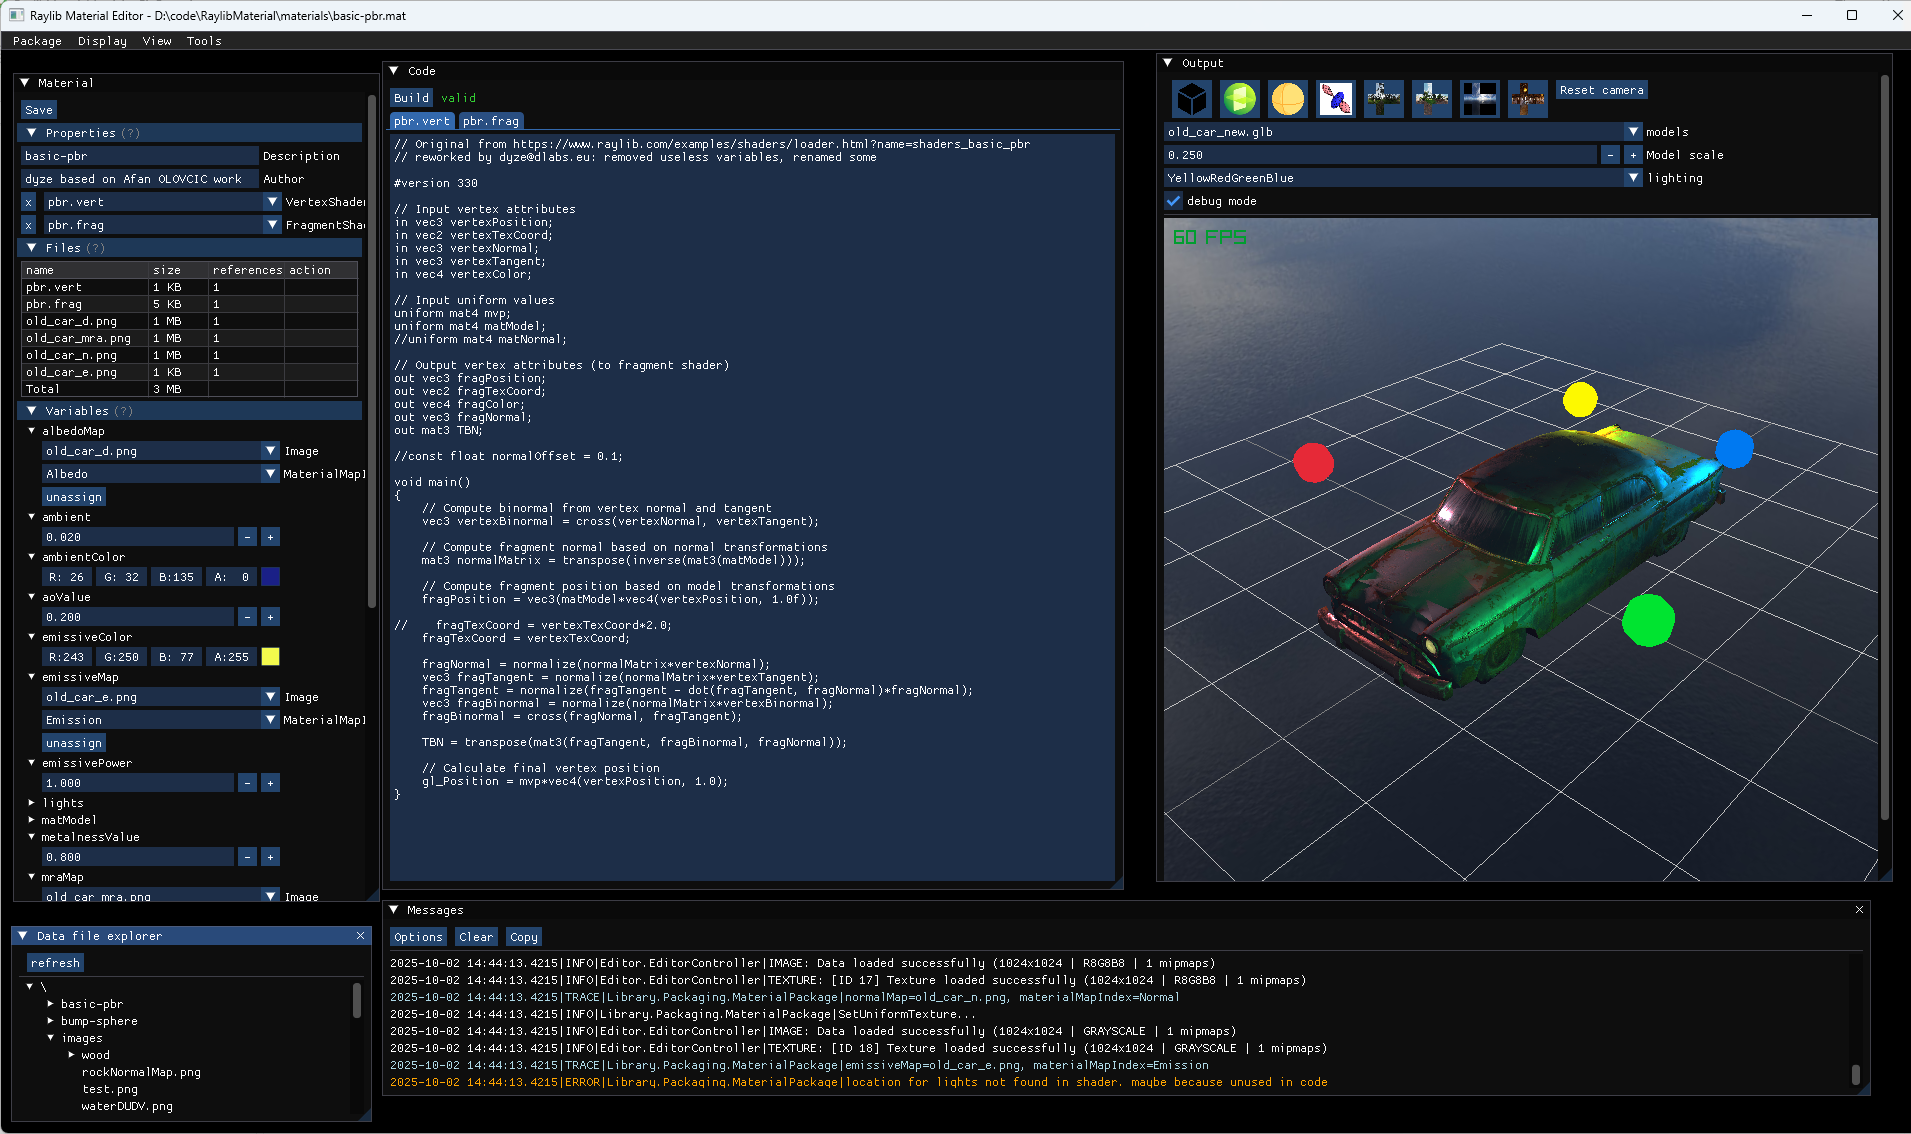
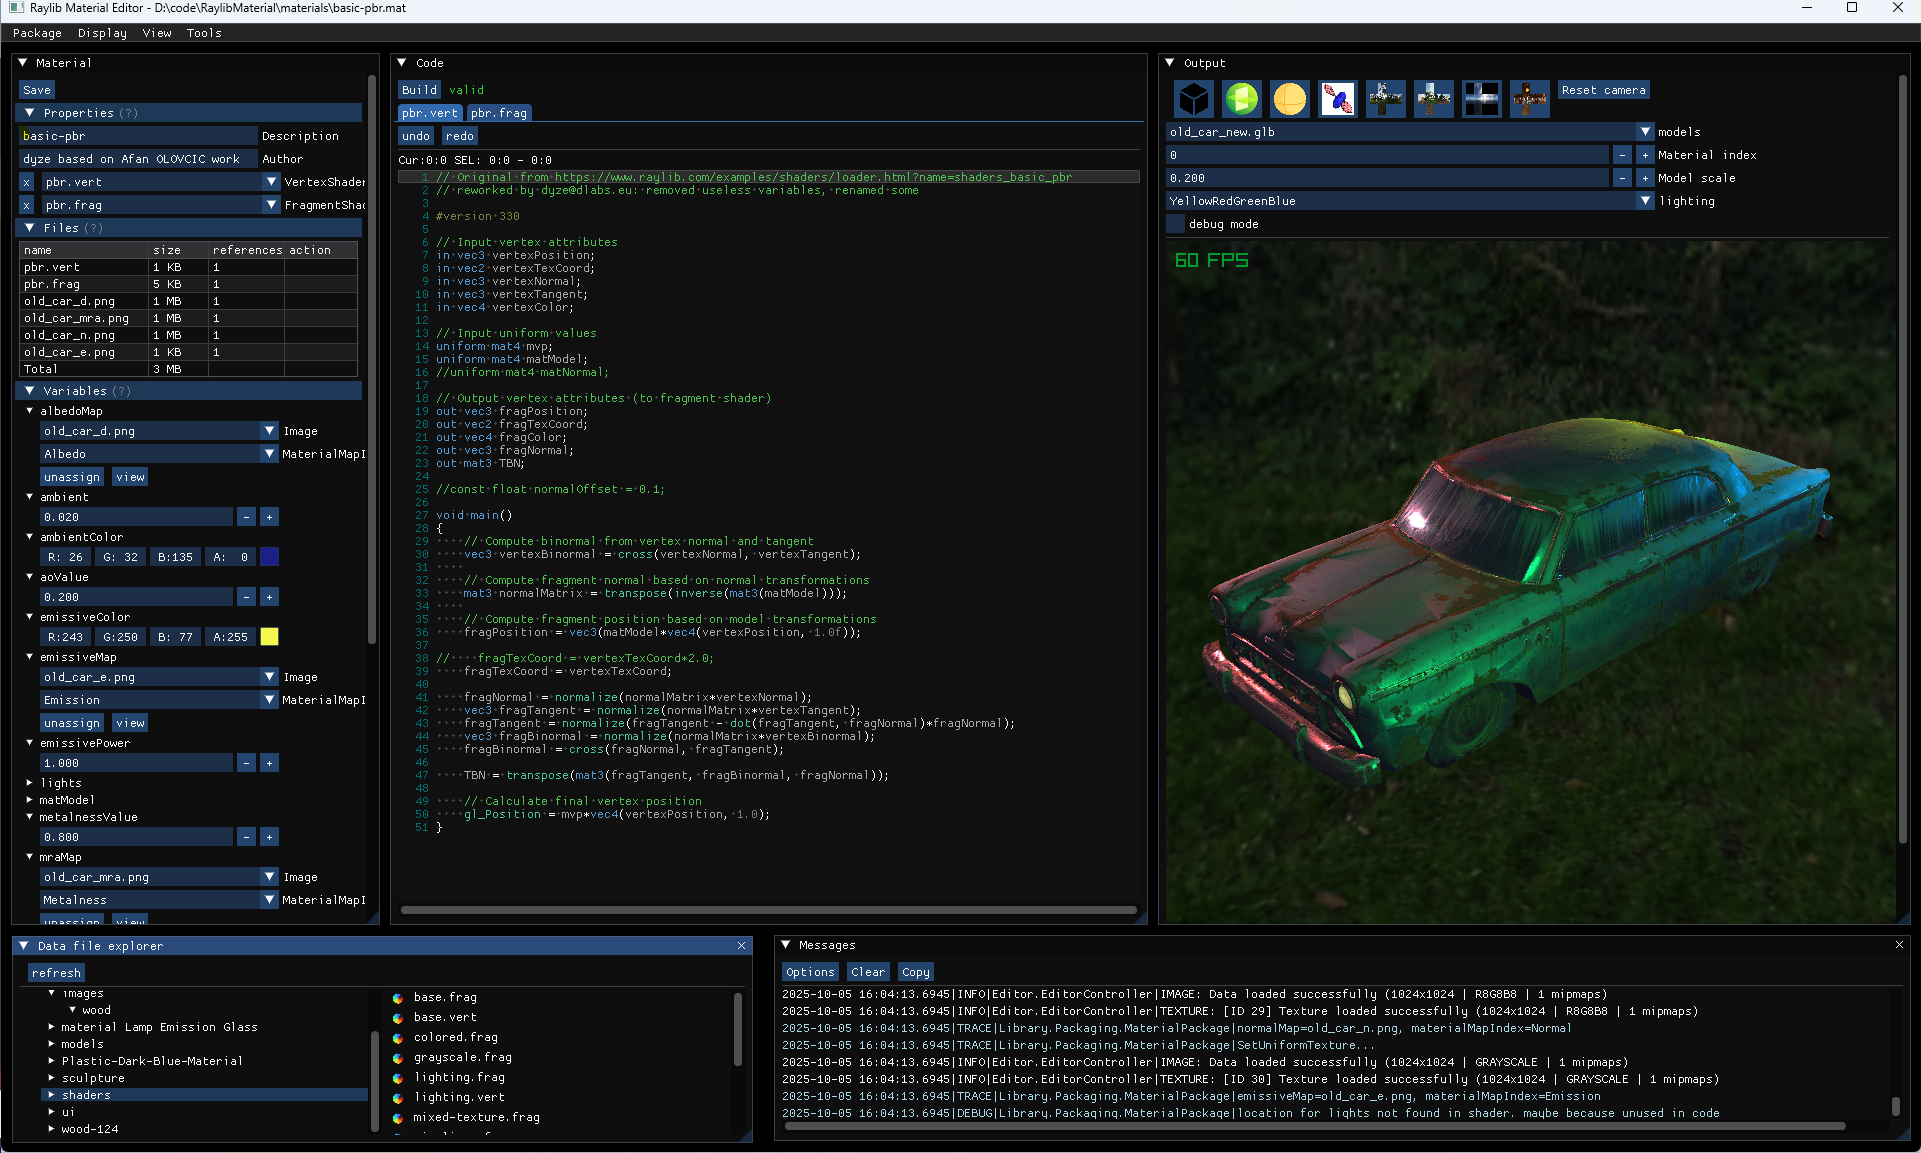
updated README.md

diff --git a/src/Editor/Windows/DataFileExplorer.cs b/src/Editor/Windows/DataFileExplorer.cs
@@ -233,7 +233,7 @@ public class DataFileExplorer
             ImGui.SetNextItemOpen(true, ImGuiCond.Always);
 
         if (_selectedFolder == folderContent)
-            flags |= ImGuiTreeNodeFlags.Selected | ImGuiTreeNodeFlags.SpanFullWidth;
+            flags |= ImGuiTreeNodeFlags.Selected;
 
         var openFolder = ImGui.TreeNodeEx(name.Length == 0 ? "\\" : name,
             flags);

diff --git a/README.md b/README.md
@@ -11,23 +11,27 @@ Such editor looks like:
 The produced packages are simple zip files that contain whatever is needed for Raylib to work:
 ![image info](./docs/package-content.png)
 
-It is based on RayLib-cs project.
+It is based on [Raylib-cs](https://github.com/raylib-cs/raylib-cs) project.
+
+The provided **ConsumerSampleApp** project shows how to use those materials:
+
+![image info](./docs/ConsumerSampleApp.png)
 
 ## Status of the project
 
 0.1 is still under developer. You can play with it and give feedbacks but the library and editor are not fully operational.
 
 The remaining tasks for this first release are:
-* [ ] make easy to edit and compile shaders
-* [ ] support of models with multiple materials
+* [x] make easy to edit and compile shaders
+* [x] support of models with multiple materials
 * [ ] handle all kinds of uniform types (vec2, vec3...)
 * [x] preview material using a 3D model stored on disk (today only primitives are properly supported)
 * [x] use a sky box instead of a plane for background
 * [ ] handle versioning of packages
-* [ ] produce nuget package for library
+* [x] produce nuget package for library
 * [ ] Cover 100% of code of the library with tests
 * [ ] Add documentation of the editor and the library
-* [ ] Improve existing sample and how to apply produced packages to your projects
+* [x] Improve existing sample and how to apply produced packages to your projects
 
 ## How to build and use
 
